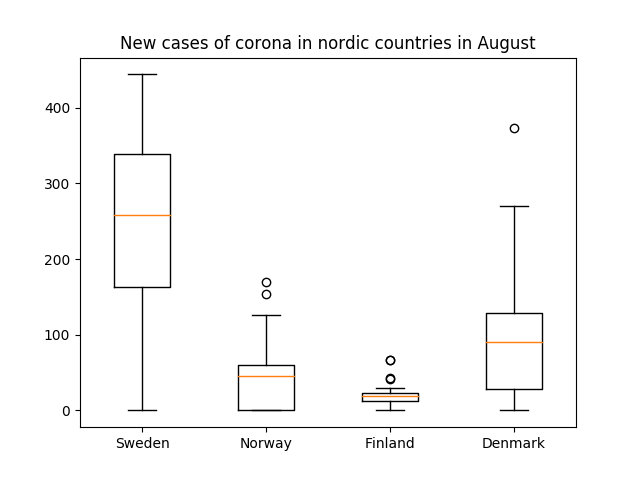
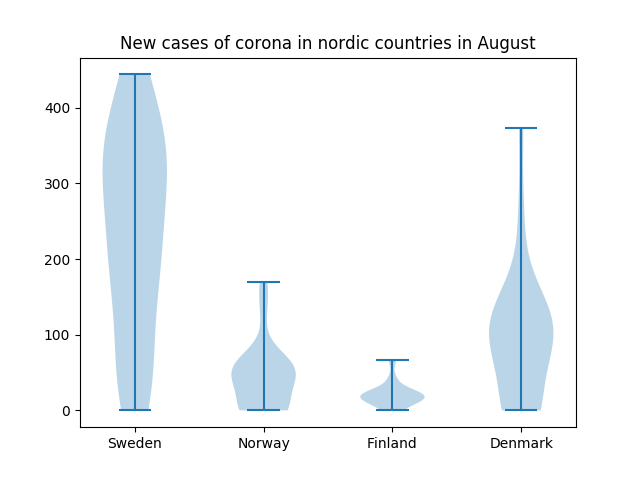
change boxplot to violinplot

diff --git a/assignment1/src/boxplot_covid.py b/assignment1/src/boxplot_covid.py
@@ -22,7 +22,7 @@ country_data = [extract_data(country) for country in countryList]
 
 (fig, ax) = plt.subplots()
 # Create an axes instance
-bp = ax.boxplot(country_data)
+bp = ax.violinplot(country_data)
 
 
 ax.set_title("New cases of corona in nordic countries in August")
